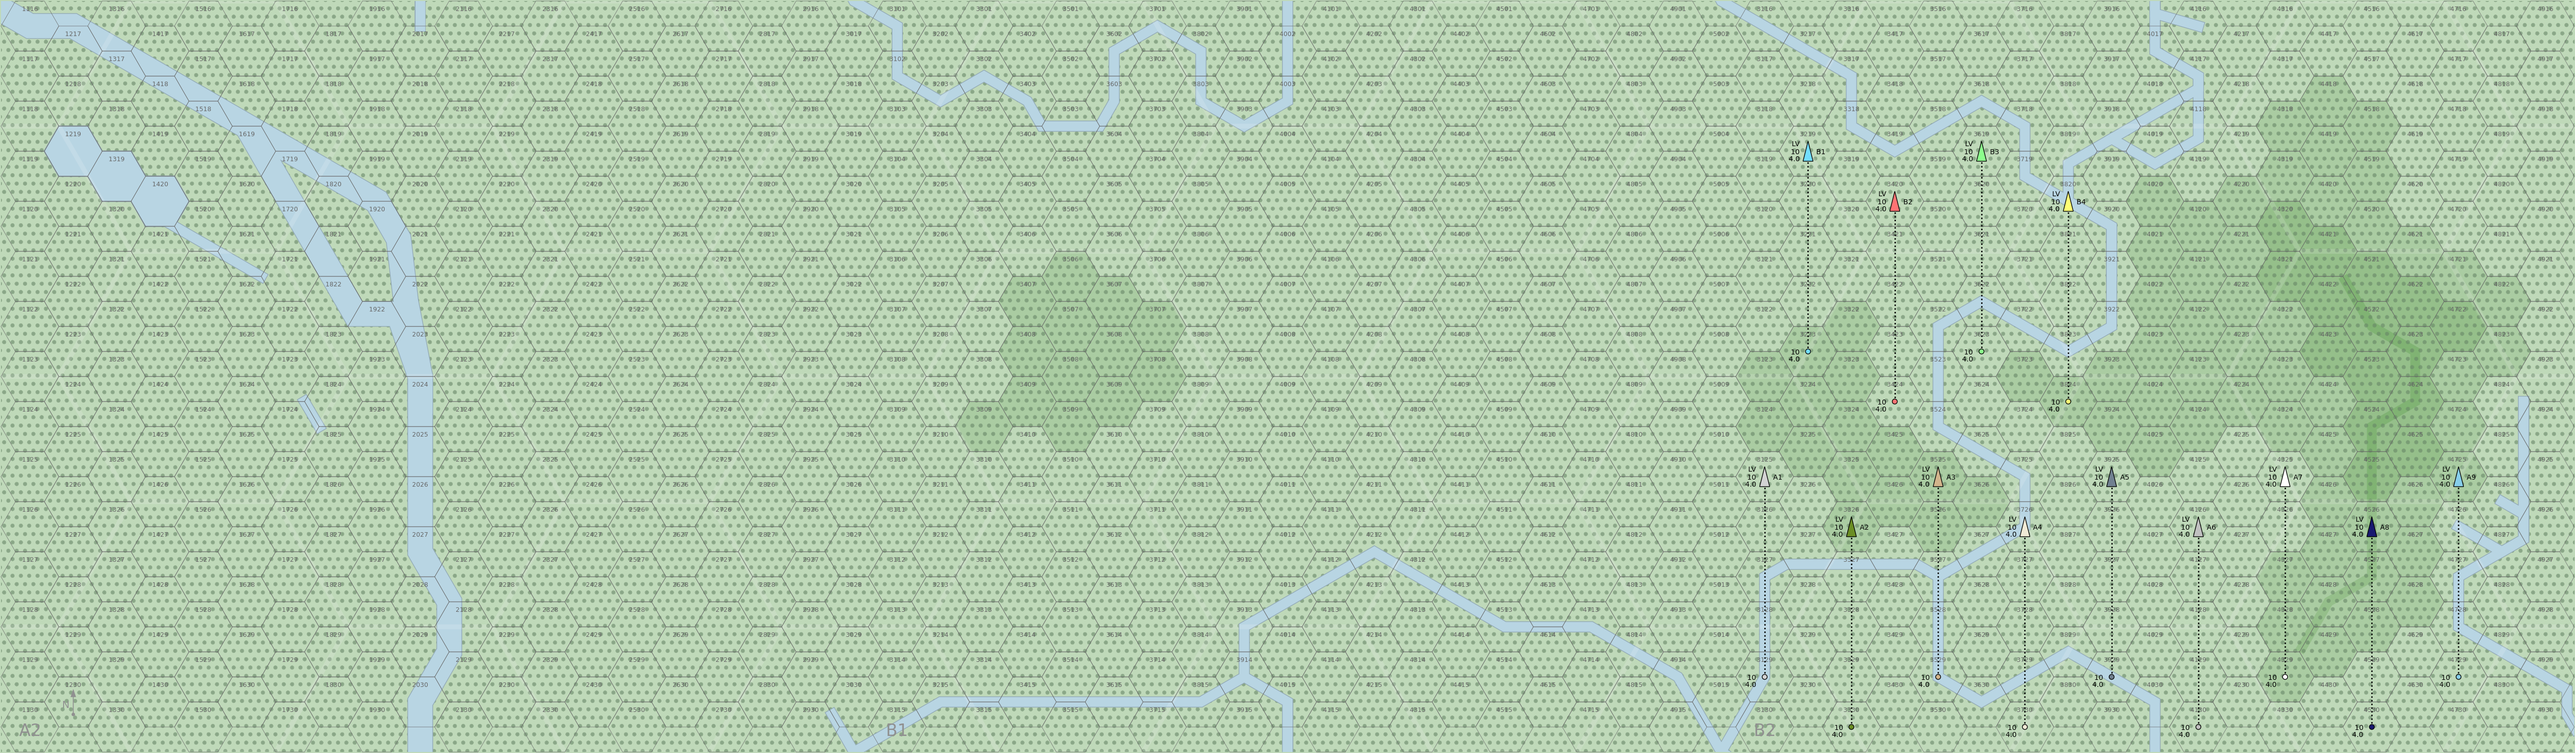
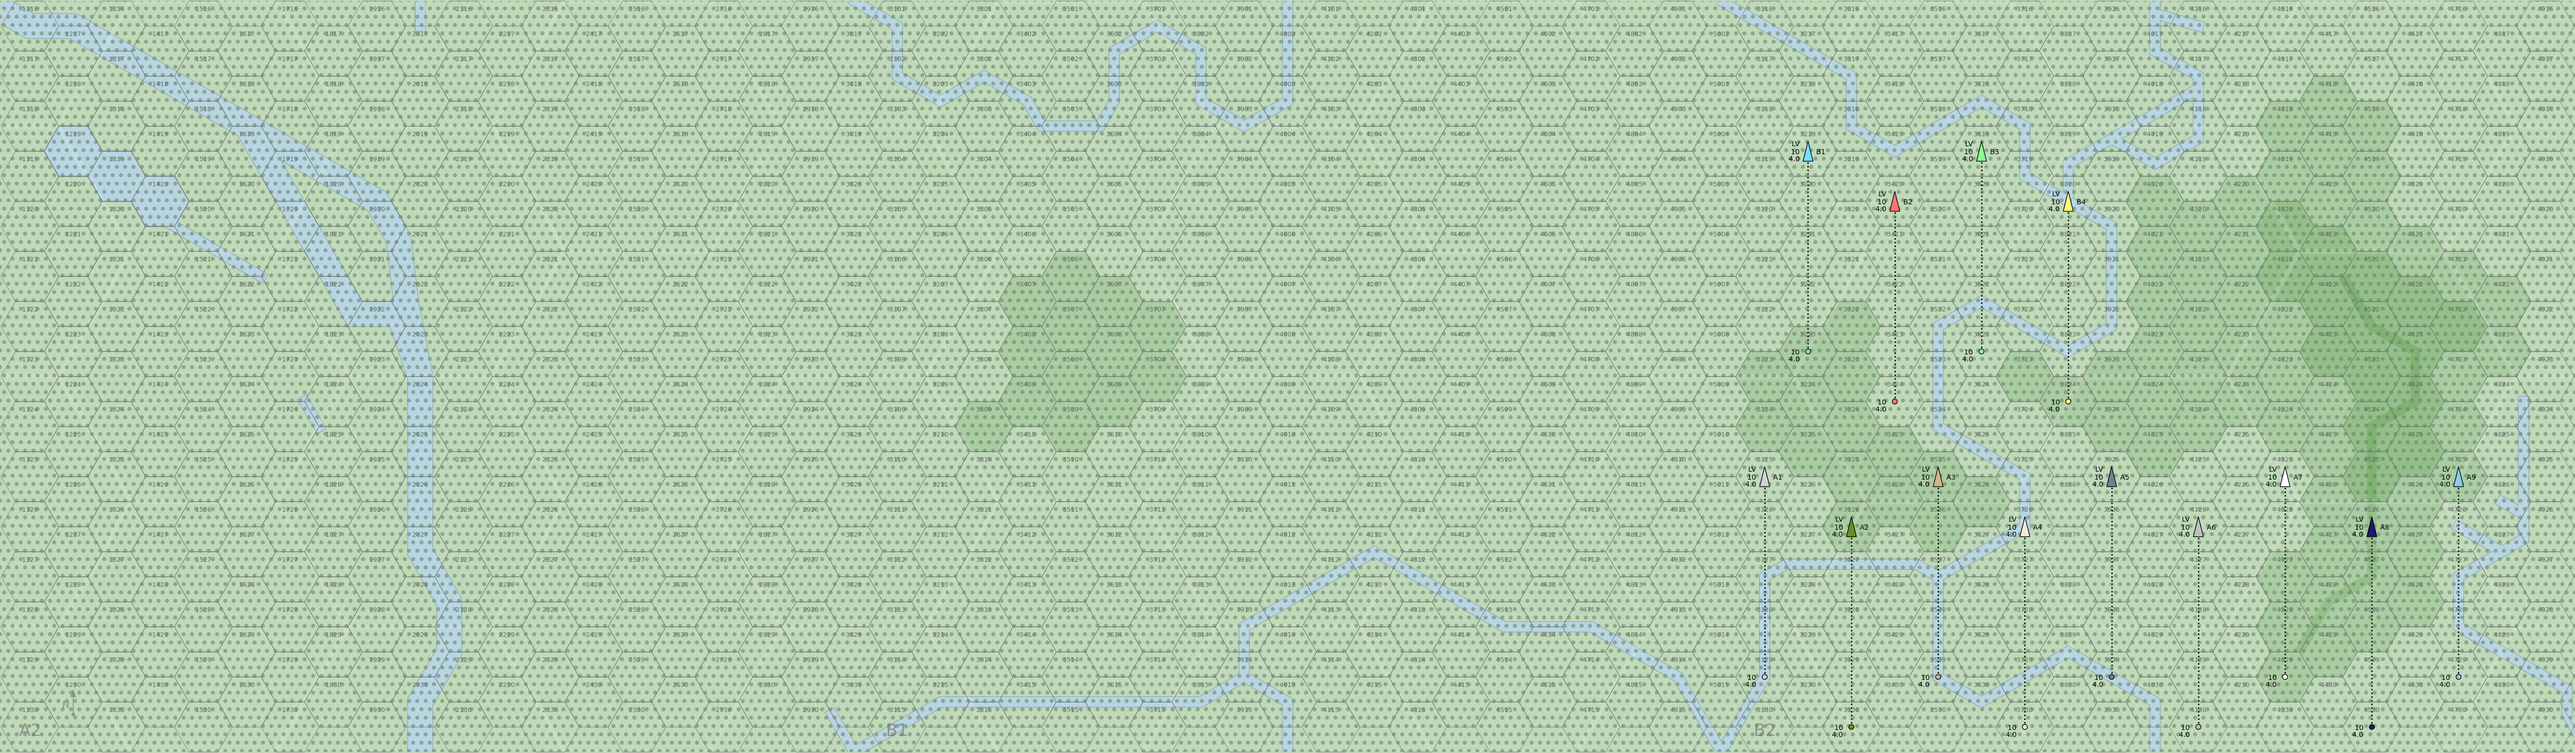
Work towards #171.

diff --git a/apxo/map.py b/apxo/map.py
@@ -809,21 +809,6 @@ def startdrawmap(
                         fillcolor=level0color,
                         zorder=0,
                     )
-                    if _allforest:
-                        apdraw.drawrectangle(
-                            xmin,
-                            ymin,
-                            xmax,
-                            ymax,
-                            hatch=foresthatch,
-                            linecolor=forestcolor,
-                            alpha=forestalpha,
-                            linewidth=0,
-                            fillcolor=None,
-                            zorder=0,
-                        )
-
-            for sheet in sheetsnearcanvas():
 
                 # Draw levels 0, 1, and 2.
 
@@ -881,42 +866,34 @@ def startdrawmap(
                     linewidth=ridgewidth,
                 )
 
+                # Draw the forest areas.
+
                 if _allforest:
 
-                    drawhexes(
-                        sheet,
-                        _terrain[sheet]["level0hexes"],
-                        linewidth=0,
-                        linecolor=forestcolor,
+                    apdraw.drawrectangle(
+                        xmin,
+                        ymin,
+                        xmax,
+                        ymax,
                         hatch=foresthatch,
-                        alpha=forestalpha,
-                    )
-                    drawhexes(
-                        sheet,
-                        _terrain[sheet]["level1hexes"],
-                        linewidth=0,
                         linecolor=forestcolor,
-                        hatch=foresthatch,
                         alpha=forestalpha,
-                    )
-                    drawhexes(
-                        sheet,
-                        _terrain[sheet]["level2hexes"],
                         linewidth=0,
-                        linecolor=forestcolor,
-                        hatch=foresthatch,
-                        alpha=forestalpha,
+                        fillcolor=None,
+                        zorder=0,
                     )
+                        
+                else:
 
-                # Draw the forest areas.
-                drawhexes(
-                    sheet,
-                    _terrain[sheet]["foresthexes"],
-                    linewidth=0,
-                    linecolor=forestcolor,
-                    hatch=foresthatch,
-                    alpha=forestalpha,
-                )
+                    drawhexes(
+                        sheet,
+                        _terrain[sheet]["foresthexes"],
+                        hatch=foresthatch,
+                        linecolor=forestcolor,
+                        alpha=forestalpha,
+                        linewidth=0,
+                        fillcolor=None,
+                    )
 
                 # Draw the road clearings.
 
